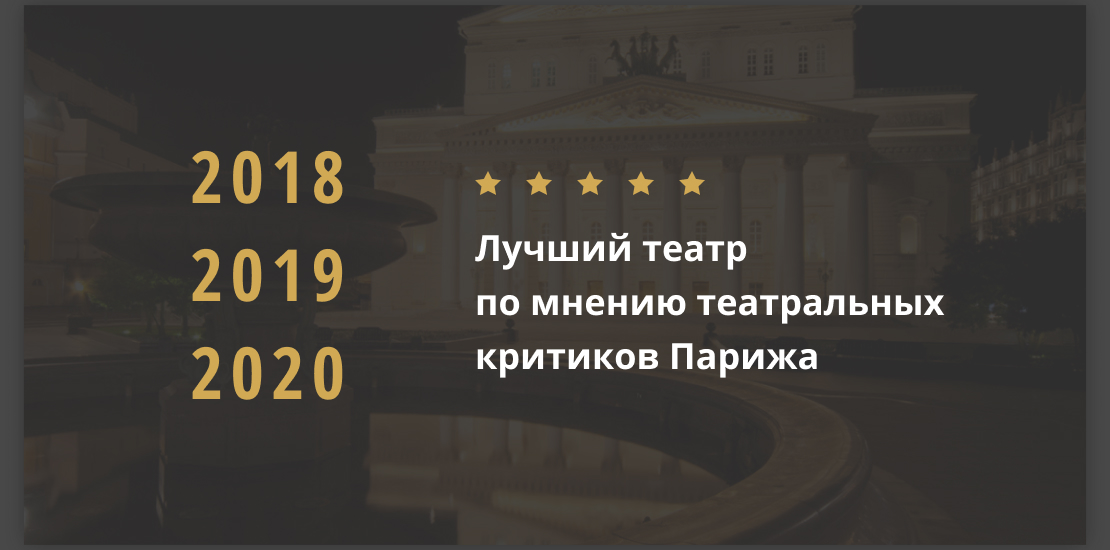
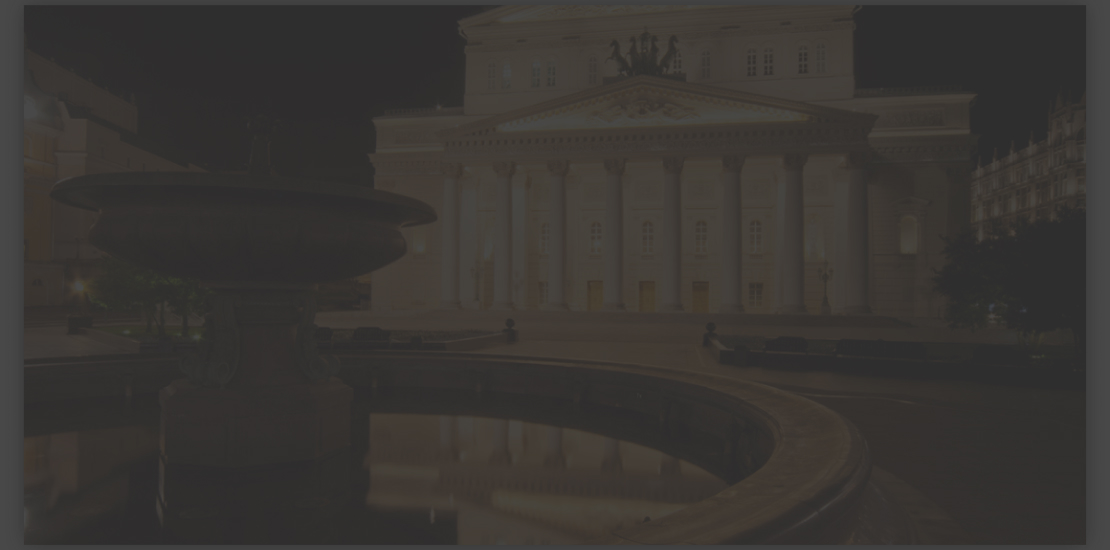
footer

diff --git a/app/css/style.min.css b/app/css/style.min.css
@@ -1,1 +1,1 @@
-html{-webkit-box-sizing:border-box;box-sizing:border-box;scroll-behavior:smooth}*,*::after,*::before{-webkit-box-sizing:inherit;box-sizing:inherit}a{text-decoration:none;color:#fff}body{font-family:'Open Sans', sans-serif;font-size:16px;color:#fff;background-color:#333333}.yellow{color:#D1A954}.header .container-fluid{background:url(../img/header__bg.jpg) no-repeat center;background-size:cover}.header__inner{margin:0 auto;max-width:1110px}.header__top{display:-webkit-box;display:-ms-flexbox;display:flex;-webkit-box-pack:justify;-ms-flex-pack:justify;justify-content:space-between;padding:51px 0}.header__phone-link{font-family:Open Sans Condensed;font-style:normal;font-weight:bold;font-size:16px;line-height:22px;letter-spacing:0.05em;text-transform:uppercase}.header__phone-link:hover{color:inherit}.header__center-main-text{display:-webkit-box;display:-ms-flexbox;display:flex;-webkit-box-orient:vertical;-webkit-box-direction:normal;-ms-flex-direction:column;flex-direction:column;-webkit-box-pack:start;-ms-flex-pack:start;justify-content:flex-start;-webkit-box-align:start;-ms-flex-align:start;align-items:flex-start;margin:256px 0 365px}.header__center-title{font-family:Open Sans Condensed;font-style:normal;font-weight:700;font-size:64px;line-height:87px;letter-spacing:0.1em;text-transform:uppercase;margin-bottom:50px}.header__center-text{font-family:Open Sans;font-style:normal;font-weight:400;font-size:14px;line-height:150%;margin-bottom:50px}.header__center-btn{font-family:Open Sans Condensed;font-style:normal;font-weight:700;font-size:18px;line-height:25px;display:-webkit-box;display:-ms-flexbox;display:flex;-webkit-box-align:center;-ms-flex-align:center;align-items:center;text-align:center;letter-spacing:0.1em;text-transform:uppercase;display:flex;-webkit-box-pack:center;-ms-flex-pack:center;justify-content:center;align-items:center;width:160px;height:50px;background-color:#D1A954;cursor:pointer}.header__center-btn:hover{color:inherit}.menu-list{padding-left:0;display:-webkit-box;display:-ms-flexbox;display:flex;list-style-type:none}.menu-list__item+.menu-list__item{margin-left:63px}.menu-list__item-link{font-family:Open Sans Condensed;font-style:normal;font-weight:bold;font-size:18px;line-height:25px;letter-spacing:0.1em;text-transform:uppercase}.menu-list__item-link:hover{color:inherit}.fixed-contacts{position:fixed;left:0;top:0;width:150px;height:100vh;background:rgba(51,51,51,0.75);display:-webkit-box;display:-ms-flexbox;display:flex;-webkit-box-orient:vertical;-webkit-box-direction:normal;-ms-flex-direction:column;flex-direction:column;-webkit-box-pack:start;-ms-flex-pack:start;justify-content:flex-start;-webkit-box-align:center;-ms-flex-align:center;align-items:center}.contacts{padding-top:200px}.contacts__text{-webkit-writing-mode:vertical-rl;-ms-writing-mode:tb-rl;writing-mode:vertical-rl;-webkit-transform:rotate(180deg);-ms-transform:rotate(180deg);transform:rotate(180deg);margin-bottom:40px;font-family:Open Sans Condensed;font-style:normal;font-weight:700;font-size:18px;line-height:25px;letter-spacing:0.1em;text-transform:uppercase;color:#C4C4C4}.contacts__socials{display:-webkit-box;display:-ms-flexbox;display:flex;-webkit-box-orient:vertical;-webkit-box-direction:normal;-ms-flex-direction:column;flex-direction:column;-webkit-box-align:center;-ms-flex-align:center;align-items:center;-webkit-box-pack:center;-ms-flex-pack:center;justify-content:center;position:absolute;position:relative;padding-top:120px}.contacts__socials::before{position:absolute;content:"";height:80px;width:3px;background-color:#C4C4C4;top:0;z-index:10}.contacts__socials-link{margin-bottom:30px}.about-theatre__inner{margin:0 auto;padding:150px 0;max-width:1110px;display:-webkit-box;display:-ms-flexbox;display:flex;-webkit-box-orient:vertical;-webkit-box-direction:normal;-ms-flex-direction:column;flex-direction:column;-webkit-box-pack:center;-ms-flex-pack:center;justify-content:center;-webkit-box-align:center;-ms-flex-align:center;align-items:center}.about-theatre__title{font-family:"Open Sans Condensed";font-style:normal;font-weight:300;font-size:48px;line-height:65px;letter-spacing:0.1em;text-transform:uppercase;margin-bottom:100px}.about-theatre__general{display:-webkit-box;display:-ms-flexbox;display:flex;-webkit-box-pack:justify;-ms-flex-pack:justify;justify-content:space-between;gap:30px}.about-theatre__best-title{font-family:"Open Sans Condensed";font-style:normal;font-weight:700;font-size:21px;line-height:29px;letter-spacing:0.1em;text-transform:uppercase;margin-bottom:40px}.about-theatre__best-text{font-style:normal;font-weight:normal;font-size:14px;line-height:150%}.about-theatre__numbers{min-width:255px}.about-theatre__numbers-title{font-family:"Open Sans Condensed";font-style:normal;font-weight:700;font-size:21px;line-height:29px;letter-spacing:0.1em;text-transform:uppercase;margin-bottom:40px}.about-theatre__numbers-img{margin-bottom:15px}.about-theatre__numbers-text{font-family:"Open Sans Condensed";font-style:normal;font-weight:700;font-size:16px;line-height:22px;letter-spacing:0.05em}.about-theatre__landscape{min-width:350px}
+html{-webkit-box-sizing:border-box;box-sizing:border-box;scroll-behavior:smooth}*,*::after,*::before{-webkit-box-sizing:inherit;box-sizing:inherit}a{text-decoration:none;color:#fff}body{font-family:'Open Sans', sans-serif;font-size:16px;color:#fff;background-color:#333333}.yellow{color:#D1A954}.header .container-fluid{background:url(../img/header__bg.jpg) no-repeat center;background-size:cover}.header__inner{margin:0 auto;max-width:1110px}.header__top{display:-webkit-box;display:-ms-flexbox;display:flex;-webkit-box-pack:justify;-ms-flex-pack:justify;justify-content:space-between;padding:51px 0}.header__phone-link{font-family:Open Sans Condensed;font-style:normal;font-weight:bold;font-size:16px;line-height:22px;letter-spacing:0.05em;text-transform:uppercase}.header__phone-link:hover{color:inherit}.header__center-main-text{display:-webkit-box;display:-ms-flexbox;display:flex;-webkit-box-orient:vertical;-webkit-box-direction:normal;-ms-flex-direction:column;flex-direction:column;-webkit-box-pack:start;-ms-flex-pack:start;justify-content:flex-start;-webkit-box-align:start;-ms-flex-align:start;align-items:flex-start;margin:256px 0 365px}.header__center-title{font-family:Open Sans Condensed;font-style:normal;font-weight:700;font-size:64px;line-height:87px;letter-spacing:0.1em;text-transform:uppercase;margin-bottom:50px}.header__center-text{font-family:Open Sans;font-style:normal;font-weight:400;font-size:14px;line-height:150%;margin-bottom:50px}.header__center-btn{font-family:Open Sans Condensed;font-style:normal;font-weight:700;font-size:18px;line-height:25px;display:-webkit-box;display:-ms-flexbox;display:flex;-webkit-box-align:center;-ms-flex-align:center;align-items:center;text-align:center;letter-spacing:0.1em;text-transform:uppercase;display:flex;-webkit-box-pack:center;-ms-flex-pack:center;justify-content:center;align-items:center;width:160px;height:50px;background-color:#D1A954;cursor:pointer}.header__center-btn:hover{color:inherit}.menu-list{padding-left:0;display:-webkit-box;display:-ms-flexbox;display:flex;list-style-type:none}.menu-list__item+.menu-list__item{margin-left:63px}.menu-list__item-link{font-family:Open Sans Condensed;font-style:normal;font-weight:bold;font-size:18px;line-height:25px;letter-spacing:0.1em;text-transform:uppercase}.menu-list__item-link:hover{color:inherit}.fixed-contacts{position:fixed;left:0;top:0;width:150px;height:100vh;background:rgba(51,51,51,0.75);display:-webkit-box;display:-ms-flexbox;display:flex;-webkit-box-orient:vertical;-webkit-box-direction:normal;-ms-flex-direction:column;flex-direction:column;-webkit-box-pack:start;-ms-flex-pack:start;justify-content:flex-start;-webkit-box-align:center;-ms-flex-align:center;align-items:center}.contacts{padding-top:250px}.contacts__text{-webkit-writing-mode:vertical-rl;-ms-writing-mode:tb-rl;writing-mode:vertical-rl;-webkit-transform:rotate(180deg);-ms-transform:rotate(180deg);transform:rotate(180deg);margin-bottom:40px;font-family:Open Sans Condensed;font-style:normal;font-weight:700;font-size:18px;line-height:25px;letter-spacing:0.1em;text-transform:uppercase;color:#C4C4C4}.contacts__socials{display:-webkit-box;display:-ms-flexbox;display:flex;-webkit-box-orient:vertical;-webkit-box-direction:normal;-ms-flex-direction:column;flex-direction:column;-webkit-box-align:center;-ms-flex-align:center;align-items:center;-webkit-box-pack:center;-ms-flex-pack:center;justify-content:center;position:absolute;position:relative;padding-top:120px}.contacts__socials::before{position:absolute;content:"";height:80px;width:3px;background-color:#C4C4C4;top:0;z-index:10}.contacts__socials-link{margin-bottom:30px}.about-theatre__inner{margin:0 auto;padding:150px 0;max-width:1110px;display:-webkit-box;display:-ms-flexbox;display:flex;-webkit-box-orient:vertical;-webkit-box-direction:normal;-ms-flex-direction:column;flex-direction:column;-webkit-box-pack:center;-ms-flex-pack:center;justify-content:center;-webkit-box-align:center;-ms-flex-align:center;align-items:center}.about-theatre__title{font-family:"Open Sans Condensed";font-style:normal;font-weight:300;font-size:48px;line-height:65px;letter-spacing:0.1em;text-transform:uppercase;margin-bottom:100px}.about-theatre__general{display:-webkit-box;display:-ms-flexbox;display:flex;-webkit-box-pack:justify;-ms-flex-pack:justify;justify-content:space-between;gap:30px}.about-theatre__best-title{font-family:"Open Sans Condensed";font-style:normal;font-weight:700;font-size:21px;line-height:29px;letter-spacing:0.1em;text-transform:uppercase;margin-bottom:40px}.about-theatre__best-text{font-style:normal;font-weight:normal;font-size:14px;line-height:150%}.about-theatre__numbers{min-width:255px}.about-theatre__numbers-title{font-family:"Open Sans Condensed";font-style:normal;font-weight:700;font-size:21px;line-height:29px;letter-spacing:0.1em;text-transform:uppercase;margin-bottom:40px}.about-theatre__numbers-img{margin-bottom:15px}.about-theatre__numbers-text{font-family:"Open Sans Condensed";font-style:normal;font-weight:700;font-size:16px;line-height:22px;letter-spacing:0.05em}.about-theatre__landscape{min-width:350px}.our-staging .container-fluid{display:-webkit-box;display:-ms-flexbox;display:flex;-webkit-box-orient:vertical;-webkit-box-direction:normal;-ms-flex-direction:column;flex-direction:column;-webkit-box-pack:center;-ms-flex-pack:center;justify-content:center;-webkit-box-align:center;-ms-flex-align:center;align-items:center}.our-staging__title{font-family:"Open Sans Condensed";font-style:normal;font-weight:300;font-size:48px;line-height:65px;letter-spacing:0.1em;text-transform:uppercase;margin-bottom:650px}.awards__inner{margin:150px auto;padding:126px 190px;max-width:1110px;background:url(../img/award__bg.jpg) no-repeat center;background-size:cover;display:-webkit-box;display:-ms-flexbox;display:flex;-webkit-box-pack:center;-ms-flex-pack:center;justify-content:center;-webkit-box-align:center;-ms-flex-align:center;align-items:center;gap:103px}.awards__year-text{font-family:Open Sans Condensed;font-style:normal;font-weight:700;font-size:72px;line-height:98px;letter-spacing:0.1em;text-transform:uppercase;margin-bottom:0}.awards__reviews{display:-webkit-box;display:-ms-flexbox;display:flex;-webkit-box-orient:vertical;-webkit-box-direction:normal;-ms-flex-direction:column;flex-direction:column;-webkit-box-align:start;-ms-flex-align:start;align-items:flex-start;-webkit-box-pack:center;-ms-flex-pack:center;justify-content:center;gap:35px}.awards__reviews-stars{background-image:url(../img/awards__star.svg);background-repeat:no-repeat;height:24px;width:100%}.awards__reviews-text{font-style:normal;font-weight:700;font-size:36px;line-height:150%;margin-bottom:0}.partners__inner{margin:0 auto;max-width:1110px;display:-webkit-box;display:-ms-flexbox;display:flex;-webkit-box-orient:vertical;-webkit-box-direction:normal;-ms-flex-direction:column;flex-direction:column;-webkit-box-pack:center;-ms-flex-pack:center;justify-content:center;-webkit-box-align:center;-ms-flex-align:center;align-items:center}.partners__title{font-family:"Open Sans Condensed";font-style:normal;font-weight:300;font-size:48px;line-height:65px;letter-spacing:0.1em;text-transform:uppercase;margin-bottom:372px}.patron__inner{margin:0 auto;padding:120px 0 80px;max-width:1110px;display:-webkit-box;display:-ms-flexbox;display:flex;-webkit-box-orient:vertical;-webkit-box-direction:normal;-ms-flex-direction:column;flex-direction:column;-webkit-box-pack:center;-ms-flex-pack:center;justify-content:center;-webkit-box-align:center;-ms-flex-align:center;align-items:center}.patron__title{font-family:"Open Sans Condensed";font-style:normal;font-weight:300;font-size:48px;line-height:65px;letter-spacing:0.1em;text-transform:uppercase;margin-bottom:100px}.patron__general{display:-webkit-box;display:-ms-flexbox;display:flex;-webkit-box-align:center;-ms-flex-align:center;align-items:center;-webkit-box-pack:justify;-ms-flex-pack:justify;justify-content:space-between}.footer__inner{margin:0 auto;padding:30px 0;max-width:1110px;display:-webkit-box;display:-ms-flexbox;display:flex;-webkit-box-pack:justify;-ms-flex-pack:justify;justify-content:space-between;-webkit-box-align:center;-ms-flex-align:center;align-items:center;border-top:1px solid #989898}.footer__rights{font-style:normal;font-weight:400;font-size:12px;line-height:150%;color:#989898;margin-bottom:0}.footer__develop{font-style:normal;font-weight:400;font-size:12px;line-height:150%;color:#989898}.footer__develop:hover{color:inherit}

diff --git a/app/index.html b/app/index.html
@@ -106,8 +106,8 @@
                             <p class="awards__year-text yellow">2020</p>
                         </div>
                         <div class="awards__reviews">
-                            <div class="award__reviews-stars"></div>
-                            <p class="award__reviews-text">
+                            <div class="awards__reviews-stars"></div>
+                            <p class="awards__reviews-text">
                                 Лучший театр по <br>мнению театральных <br>критиков Парижа
                             </p>
                         </div>
@@ -118,7 +118,7 @@
                 <div class="container-fluid">
                     <div class="partners__inner">
                         <h3 class="partners__title"><span class="yellow">партнеры</span> театра</h3>
-                        <divввщ class="partners__slider"></div>
+                        <div class="partners__slider"></div>
                     </div>
                 </div>
             </section>
@@ -157,8 +157,12 @@
             </section>    
         </main>
         <footer class="footer">
-            <p class="footer__rights">(с) Все права защищены. Большой театр. 2020</p>
-            <a class="footer__develop" href="#">Разработано d-e-n.ru</a>
+            <div class="container-fluid">
+                <div class="footer__inner">
+                    <p class="footer__rights">(с) Все права защищены. Большой театр. 2020</p>
+                    <a class="footer__develop" href="#">Разработано d-e-n.ru</a>
+                </div>
+            </div>
         </footer>
     </div>
     <script src="https://unpkg.com/swiper/swiper-bundle.min.js"></script>

diff --git a/app/scss/awards.scss b/app/scss/awards.scss
@@ -1,0 +1,46 @@
+.awards {
+    &__inner {
+        margin: 150px auto;
+        padding: 126px 190px;
+        max-width: 1110px;
+        background: url(../img/award__bg.jpg) no-repeat center;
+        background-size: cover;
+        display: flex;
+        justify-content: center;
+        align-items: center;
+        gap: 103px;
+    }
+    &__year {}
+    &__year-text {
+        font-family: Open Sans Condensed;
+        font-style: normal;
+        font-weight: 700;
+        font-size: 72px;
+        line-height: 98px;
+        letter-spacing: 0.1em;
+        text-transform: uppercase;
+        margin-bottom: 0;
+    }
+    &__reviews {
+        display: flex;
+        flex-direction: column;
+        align-items: flex-start;
+        justify-content: center;
+        gap: 35px;
+    }
+    &__reviews-stars {
+        background-image: url(../img/awards__star.svg);
+        background-repeat: no-repeat;
+        height: 24px;
+        width: 100%;
+    }
+    &__reviews-text {
+        font-style: normal;
+        font-weight: 700;
+        font-size: 36px;
+        line-height: 150%;
+        margin-bottom: 0;
+    }
+}
+.container-fluid {
+}

diff --git a/app/scss/patron.scss b/app/scss/patron.scss
@@ -1,0 +1,45 @@
+.patron {
+    &__inner {
+        margin: 0 auto;
+        padding: 120px 0 80px;
+        max-width: 1110px;
+        display: flex;
+        flex-direction: column;
+        justify-content: center;
+        align-items: center;
+    }
+    &__title {
+        font-family: "Open Sans Condensed";
+        font-style: normal;
+        font-weight: 300;
+        font-size: 48px;
+        line-height: 65px;
+        letter-spacing: 0.1em;
+        text-transform: uppercase;
+        margin-bottom: 100px;
+    }
+    &__general {
+        display: flex;
+        align-items: center;
+        justify-content: space-between;
+    }
+    &__info {}
+    &__info-phone {}
+    &__info-phone-link {}
+    &__info-address {}
+    &__info-address-mail {}
+    &__info-address-location {}
+    &__mailing {}
+    &__mailing-form {}
+}
+.container-fluid {
+}
+.form {
+    &__name {}
+    &__company {}
+    &__phone {}
+    &__email {}
+    &__textarea {}
+    &__text {}
+    &__btn {}
+}

diff --git a/app/scss/footer.scss b/app/scss/footer.scss
@@ -1,0 +1,30 @@
+.footer {
+    &__inner {
+        margin: 0 auto;
+        padding: 30px 0;
+        max-width: 1110px;
+        display: flex;
+        justify-content: space-between;
+        align-items: center;
+        border-top: 1px solid #989898;
+    }
+    &__rights {
+        font-style: normal;
+        font-weight: 400;
+        font-size: 12px;
+        line-height: 150%;
+        color: #989898;
+        margin-bottom: 0;
+    }
+    &__develop {
+        font-style: normal;
+        font-weight: 400;
+        font-size: 12px;
+        line-height: 150%;
+        color: #989898;
+    }
+    &__develop:hover {
+        color: inherit;
+    }
+
+}

diff --git a/app/scss/partners.scss b/app/scss/partners.scss
@@ -1,0 +1,25 @@
+.partners {
+    .container-fluid {
+    }
+    &__inner {
+        margin: 0 auto;
+        max-width: 1110px;
+        display: flex;
+        flex-direction: column;
+        justify-content: center;
+        align-items: center;
+    }
+    &__title {
+        font-family: "Open Sans Condensed";
+        font-style: normal;
+        font-weight: 300;
+        font-size: 48px;
+        line-height: 65px;
+        letter-spacing: 0.1em;
+        text-transform: uppercase;
+        // margin-bottom: 100px;
+        margin-bottom: 372px;
+    }
+    &__slider {}
+}
+

diff --git a/app/scss/our-staging.scss b/app/scss/our-staging.scss
@@ -1,0 +1,19 @@
+.our-staging {
+    .container-fluid {
+        display: flex;
+        flex-direction: column;
+        justify-content: center;
+        align-items: center;
+    }
+    &__title {
+        font-family: "Open Sans Condensed";
+        font-style: normal;
+        font-weight: 300;
+        font-size: 48px;
+        line-height: 65px;
+        letter-spacing: 0.1em;
+        text-transform: uppercase;
+        margin-bottom: 650px;
+    }
+    &__slider {}
+}

diff --git a/app/scss/style.scss b/app/scss/style.scss
@@ -1,3 +1,8 @@
 @import "main.scss";
 @import "header.scss";
 @import "about-theatre.scss";
+@import "our-staging.scss";
+@import "awards.scss";
+@import "partners.scss";
+@import "patron.scss";
+@import "footer.scss";

diff --git a/app/scss/header.scss b/app/scss/header.scss
@@ -112,7 +112,7 @@
     
 }
 .contacts {
-    padding-top: 200px;
+    padding-top: 250px;
     &__text {
         writing-mode: vertical-rl;
         transform: rotate(180deg);
